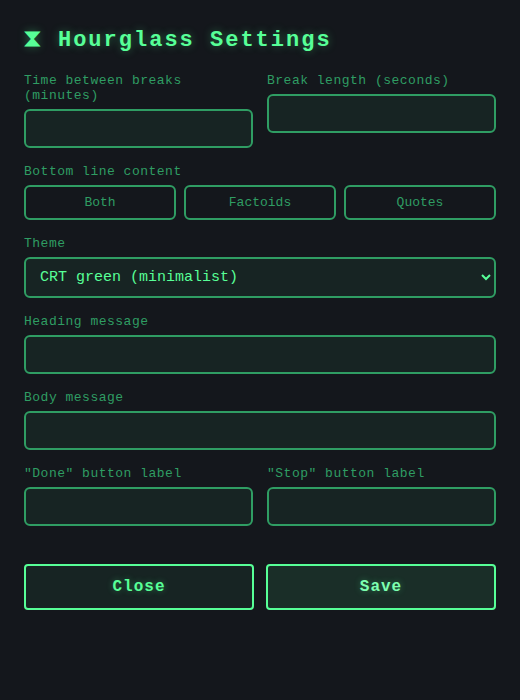
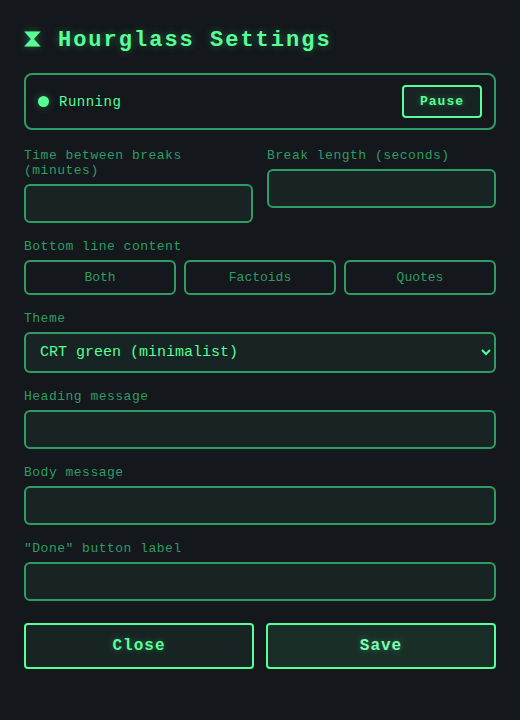
Fix Stop/Quit not exiting; replace Stop with a corner Pause button (v0.4.0)
- Exit bug: app.exit() routes through RunEvent::ExitRequested (code: Some),
  and our unconditional prevent_exit() swallowed it — so "Stop the timer" and
  the tray "Quit" did nothing. Now prevent only window-close exits
  (code.is_none()); explicit app.exit() proceeds. (Tauri docs / #2464, #13511.)
- Overlay: removed the "Stop the timer" button (center now has only "I'm Done").
  Added a bottom-right "‖ Pause" that immediately closes the popup and pauses
  all future breaks (set_paused(true) + break_done); resume from tray/Settings.
- Narrowed the factoid so it never overlaps the corner Pause button.
- Removed the now-unused terminate_button_msg from Config + the "Stop label"
  field in Settings. Refreshed README + screenshots.

diff --git a/src/main.js b/src/main.js
@@ -21,7 +21,7 @@
   const quitBtn = el("quitBtn");
   const quitLabel = el("quitLabel");
   const countdownEl = el("countdown");
-  const terminateBtn = el("terminateBtn");
+  const pauseBtn = el("pauseBtn");
   const factoidEl = el("factoid");
 
   let cfg = {
@@ -30,7 +30,6 @@
     msg_heading: "Up you go!",
     msg_body: "Time to stretch",
     quit_button_msg: "I'm Done stretching!",
-    terminate_button_msg: "Stop the timer",
     theme: "crt",
     content_mode: "both",
   };
@@ -45,7 +44,6 @@
     headingEl.textContent = cfg.msg_heading;
     bodyEl.textContent = cfg.msg_body;
     quitLabel.textContent = cfg.quit_button_msg;
-    terminateBtn.textContent = cfg.terminate_button_msg;
   }
 
   function startArt() {
@@ -94,9 +92,15 @@
     }
   });
 
-  terminateBtn.addEventListener("click", async () => {
-    if (invoke) await invoke("quit_app");
-    else overlay.style.display = "none";
+  // Corner Pause: pause all future breaks and close the popup. Available
+  // immediately (not gated by the break countdown). Resume from tray / Settings.
+  pauseBtn.addEventListener("click", async () => {
+    if (invoke) {
+      await invoke("set_paused", { paused: true });
+      await invoke("break_done");
+    } else {
+      overlay.style.display = "none";
+    }
   });
 
   async function boot() {

diff --git a/src/styles.css b/src/styles.css
@@ -173,6 +173,17 @@ html, body {
   justify-content: center;
   margin-top: 20px;
 }
+
+/* Bottom-right corner pause button (pauses reminders + closes the popup) */
+.btn-corner {
+  position: absolute;
+  right: 18px;
+  bottom: 16px;
+  padding: 8px 14px;
+  font-size: 14px;
+  opacity: 0.85;
+}
+.btn-corner:hover { opacity: 1; }
 .btn {
   font-family: var(--font-pixel);
   font-size: 18px;
@@ -210,10 +221,10 @@ html, body {
 .countdown { margin-left: 8px; opacity: .9; }
 .countdown:empty { margin-left: 0; }
 
-/* Bottom rotating factoid / quote */
+/* Bottom rotating factoid / quote (kept narrow so the corner Pause never overlaps it) */
 .factoid {
   margin: 22px auto 0;
-  max-width: 760px;
+  max-width: 560px;
   min-height: 1.4em;
   font-size: clamp(12px, 1.6vw, 16px);
   font-style: italic;

diff --git a/src/settings.html b/src/settings.html
@@ -104,15 +104,9 @@
     <label class="lbl" for="bodymsg">Body message</label>
     <input type="text" id="bodymsg" />
   </div>
-  <div class="row">
-    <div class="field">
-      <label class="lbl" for="quitmsg">"Done" button label</label>
-      <input type="text" id="quitmsg" />
-    </div>
-    <div class="field">
-      <label class="lbl" for="termsg">"Stop" button label</label>
-      <input type="text" id="termsg" />
-    </div>
+  <div class="field">
+    <label class="lbl" for="quitmsg">"Done" button label</label>
+    <input type="text" id="quitmsg" />
   </div>
 
   <div class="actions">

diff --git a/src/index.html b/src/index.html
@@ -34,11 +34,13 @@
           <span id="quitLabel">I'm Done stretching!</span>
           <span id="countdown" class="countdown"></span>
         </button>
-        <button id="terminateBtn" class="btn btn-ghost">Stop the timer</button>
       </div>
 
       <!-- Bottom: rotating factoid / quote -->
       <p id="factoid" class="factoid"></p>
+
+      <!-- Corner: pause reminders (closes the popup, pauses until you Resume) -->
+      <button id="pauseBtn" class="btn btn-ghost btn-corner" title="Pause reminders — resume from the tray or Settings">‖ Pause</button>
 
       <div class="scanlines" aria-hidden="true"></div>
       <div class="crt-flicker" aria-hidden="true"></div>

diff --git a/src/settings.js b/src/settings.js
@@ -31,7 +31,6 @@
     el("heading").value = c.msg_heading;
     el("bodymsg").value = c.msg_body;
     el("quitmsg").value = c.quit_button_msg;
-    el("termsg").value = c.terminate_button_msg;
     setTheme(c.theme);
   }
 
@@ -47,7 +46,6 @@
       msg_heading: el("heading").value,
       msg_body: el("bodymsg").value,
       quit_button_msg: el("quitmsg").value,
-      terminate_button_msg: el("termsg").value,
     };
   }
 

diff --git a/src-tauri/src/main.rs b/src-tauri/src/main.rs
@@ -27,7 +27,6 @@ struct Config {
     msg_heading: String,
     msg_body: String,
     quit_button_msg: String,
-    terminate_button_msg: String,
     /// "crt" | "dark" | "light"
     theme: String,
     /// "both" | "factoids" | "quotes"
@@ -42,7 +41,6 @@ impl Default for Config {
             msg_heading: "Up you go!".into(),
             msg_body: "Time to stretch".into(),
             quit_button_msg: "I'm Done stretching!".into(),
-            terminate_button_msg: "Stop the timer".into(),
             theme: "crt".into(),
             content_mode: "both".into(),
         }
@@ -333,10 +331,13 @@ fn main() {
         .build(tauri::generate_context!())
         .expect("error while building Hourglass")
         .run(|_app, event| {
-            // Keep Hourglass alive in the tray even with no visible windows.
-            // Explicit app.exit() (tray "Quit" / "Stop the timer") still exits.
-            if let tauri::RunEvent::ExitRequested { api, .. } = event {
-                api.prevent_exit();
+            // Stay resident in the tray when a window is closed/hidden (code:
+            // None), but let an explicit app.exit() (tray "Quit") actually quit.
+            // An unconditional prevent_exit() would swallow app.exit() too.
+            if let tauri::RunEvent::ExitRequested { code, api, .. } = event {
+                if code.is_none() {
+                    api.prevent_exit();
+                }
             }
         });
 }

diff --git a/README.md b/README.md
@@ -25,8 +25,10 @@ scanlines and a faint flicker.
   so they're never doing the same move.
 - **Heading + body message** in the middle (both editable).
 - **"I'm Done" button is disabled for the break duration** (the countdown in
-  brackets) — the same forced-break nudge as the original Java app. **"Stop the
-  timer"** quits.
+  brackets) — the same forced-break nudge as the original Java app. It's the only
+  button in the center.
+- **A bottom-right "⏸ Pause"** closes the popup and pauses all future breaks until
+  you Resume from the tray or Settings (clickable immediately).
 - **Rotating factoid / quote** along the bottom — health one-liners about why
   breaks help your body, mind and brain, plus quotes from great thinkers.
 
@@ -54,7 +56,7 @@ restart):
 - **Time between breaks** (minutes) and **Break length** (seconds).
 - **Bottom line content** — `Both`, `Factoids`, or `Quotes`.
 - **Theme** — CRT green (default), Dark (arcade), or Light.
-- The **heading / body** messages and the **two button labels**.
+- The **heading / body** messages and the **"Done" button label**.
 
 Changes are written to the config file (below) and pushed to a running overlay
 immediately via a `config-updated` event; pause changes broadcast a
@@ -93,7 +95,6 @@ config dir, e.g. on Linux:
   "msg_heading": "Up you go!",
   "msg_body": "Time to stretch",
   "quit_button_msg": "I'm Done stretching!",
-  "terminate_button_msg": "Stop the timer",
   "theme": "crt",             // "crt" | "dark" | "light"
   "content_mode": "both"      // "both" | "factoids" | "quotes"
 }